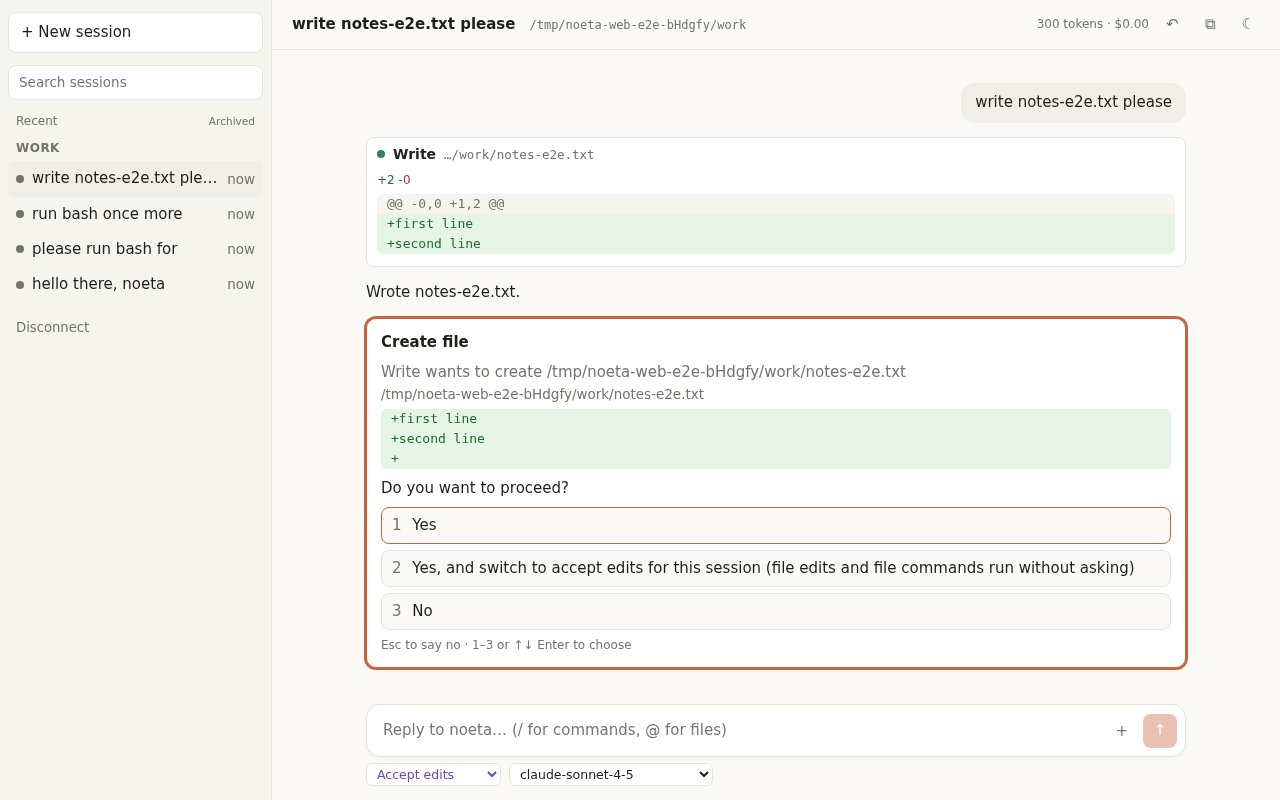
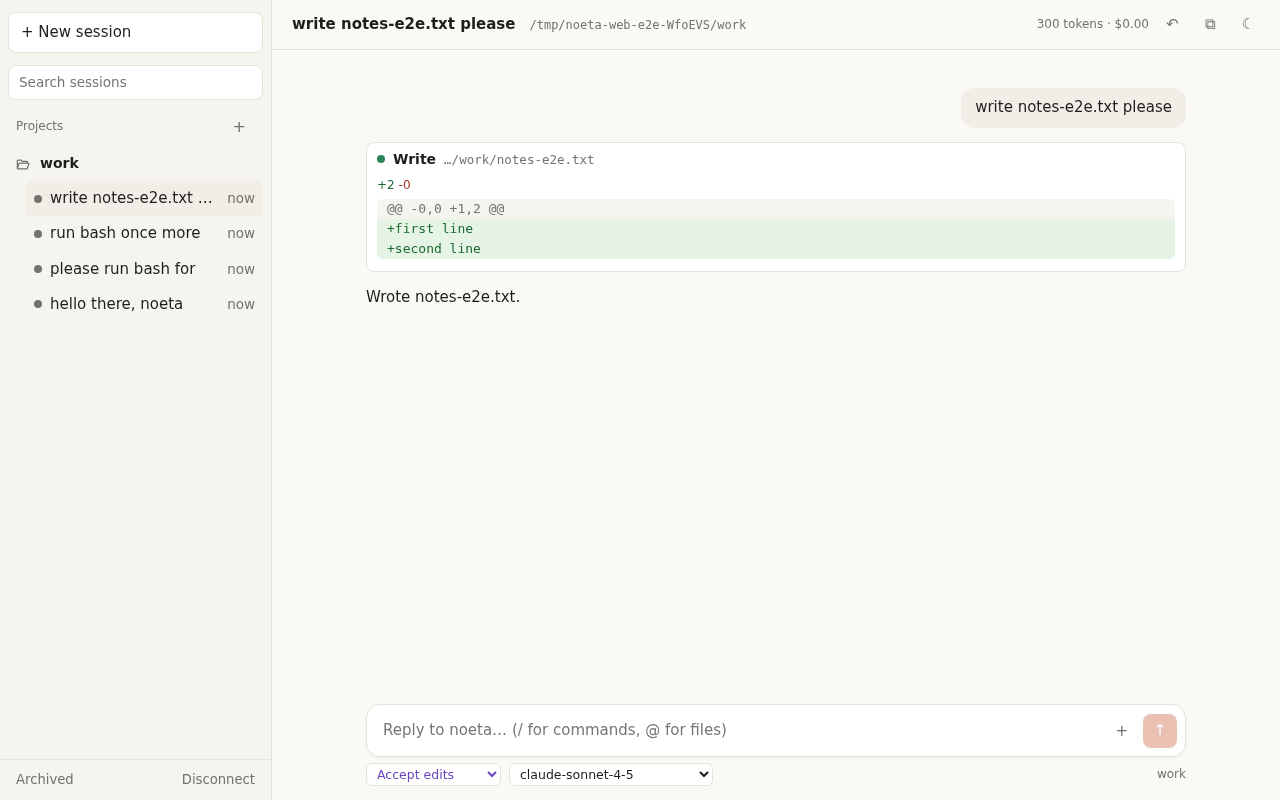
Web app: keep a project added before the first projects listing lands; screenshots
The remembered project is checked against the server's list once, and only
while it is still the one picked: a project added before the first listing
arrived was dropped by it. Screenshots retaken with the projects column
(the slash-menu one is unchanged: on this machine the menu fills with the
user's own skills before /compact).

diff --git a/web/src/App.tsx b/web/src/App.tsx
@@ -272,10 +272,14 @@ function Workspace({
     });
   }, [desk, open, refreshProjects]);
 
-  // A browser's remembered project the server no longer lists is forgotten.
+  // A browser's remembered project the server no longer lists is forgotten
+  // (once, and only while it is still the one picked).
+  const remembered = useRef<string | null>(project);
   useEffect(() => {
-    if (!desk && served && project && !served.some((p) => p.path === project) && !sessions.some((s) => s.cwd === project)) pickProject("");
-  }, [desk, served, sessions, project, pickProject]);
+    if (desk || !served || remembered.current === null) return;
+    if (project === remembered.current && project && !served.some((p) => p.path === project)) pickProject("");
+    remembered.current = null;
+  }, [desk, served, project, pickProject]);
 
   // Opening a session makes its folder the project a new session goes to.
   useEffect(() => {

diff --git a/web/screenshots/README.md b/web/screenshots/README.md
@@ -17,12 +17,14 @@ on the offline scripted provider, so they are rewritten on every run.
 | `12-rewind.png` | rewind to before a prompt (conversation, code or both) |
 | `13-theme.png`, `14-phone.png`, `15-phone-sessions.png` | dark theme; a phone-sized screen and its sessions drawer |
 | `16-search-archive.png` | the session search narrowing the list; a row's archive button |
+| `19-add-project.png` | adding a project in a browser: the folder picker over the server's folders |
+| `20-projects.png`, `21-projects-dark.png` | the projects column: each folder with its sessions, a session in the added project (light, dark) |
 
 ## Claude Code's web and desktop app features
 
 | Feature | Here |
 | --- | --- |
-| Sessions sidebar: list, new, resume, grouped by project directory, status (running / needs you / waiting / ended) | done |
+| Projects column: each project (folder) with its sessions, newest first, status (running / needs you / waiting / ended); new session in a project; add a project (native picker in the desktop app, a folder picker over `GET /dirs` in a browser), remove one; the last project remembered | done |
 | Rename a session (title button, `/rename`) | done |
 | Transcript: markdown, code highlighting, streamed text, collapsible thinking | done |
 | Tool cards: Bash command and output (long output folded), Read and the task tools compact, Edit/Write/MultiEdit as diffs, WebFetch, MCP tools, sub-agents nested (each built-in plugin's view is its web part, `web/src/plugins/<name>/`) | done |
